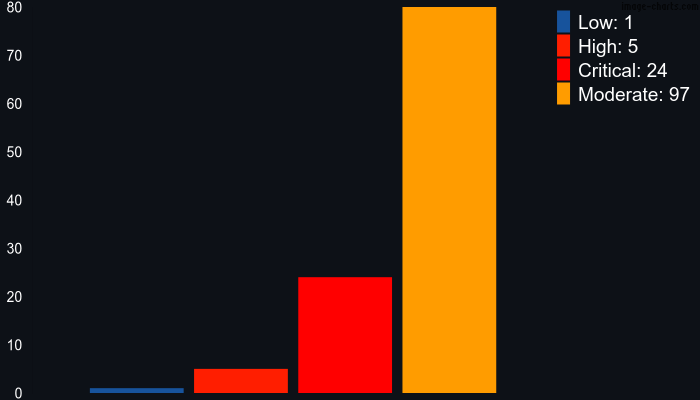
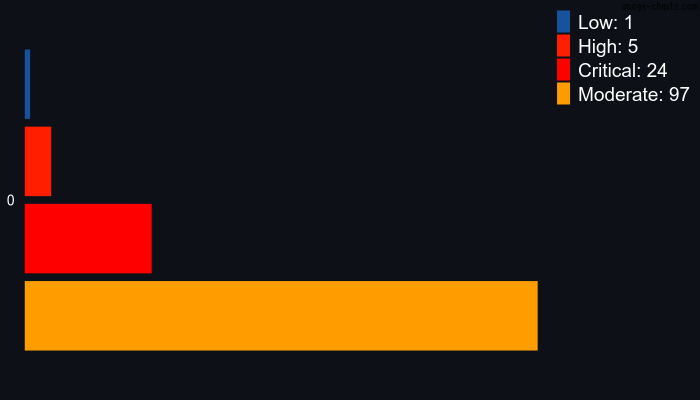
Update charts limit

Changed region(s): [[0.0, 0.0, 0.78, 0.99], [0.0, 0.96, 0.03, 1.0], [0.0, 0.0, 0.03, 0.03]]

diff --git a/chartsGen.py b/chartsGen.py
@@ -122,7 +122,7 @@ legend = "|".join([f"{label}: {severity[label]}" for label in ordered_labels])
 
 severity_url = (
     "https://image-charts.com/chart"
-    "?cht=bhg"
+    "?cht=bvg"
     "&chs=700x400"
     f"&chd=t:{'%7C'.join(map(str, values))}"
     "&chxt=y"  # Apenas eixo Y visível
